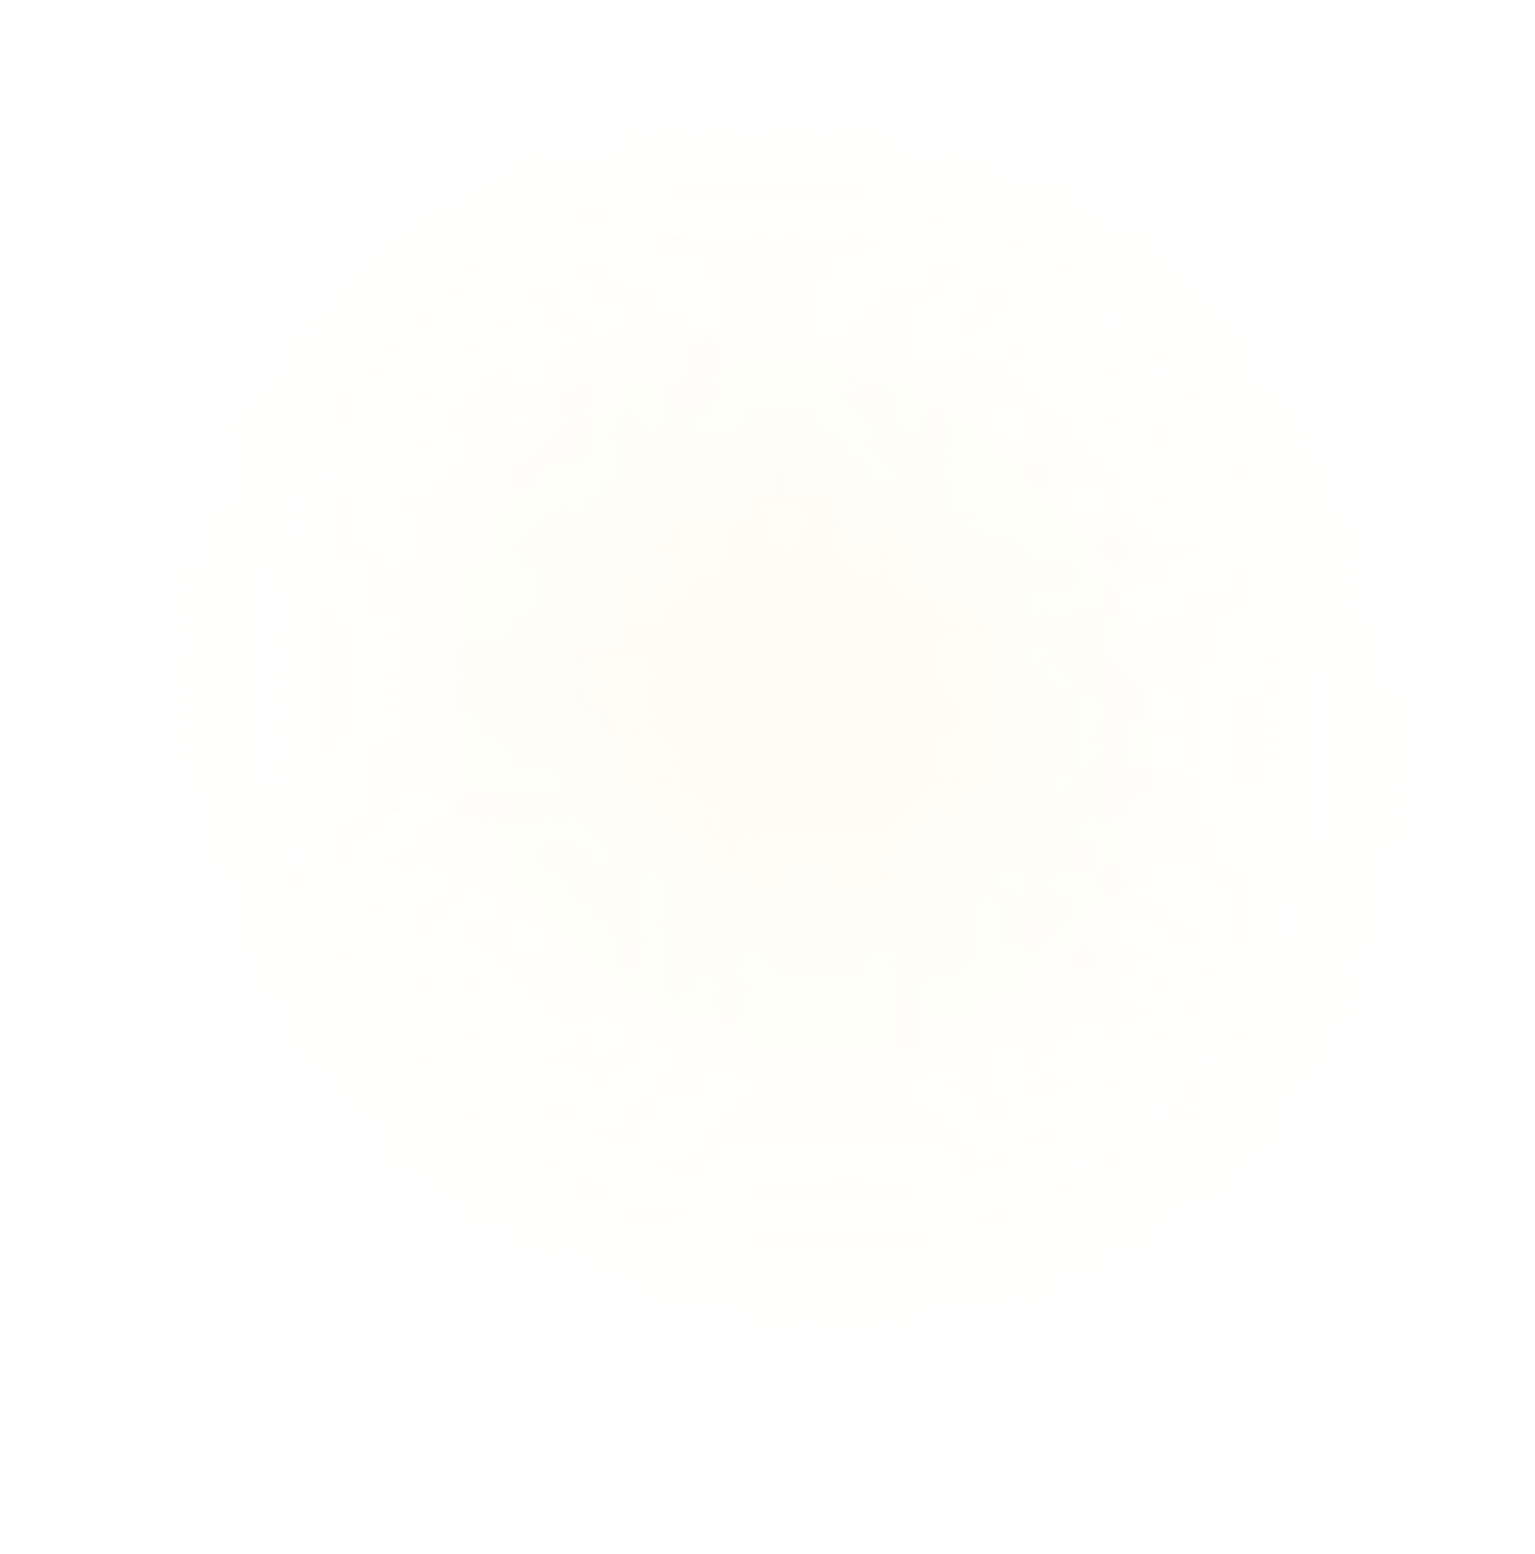
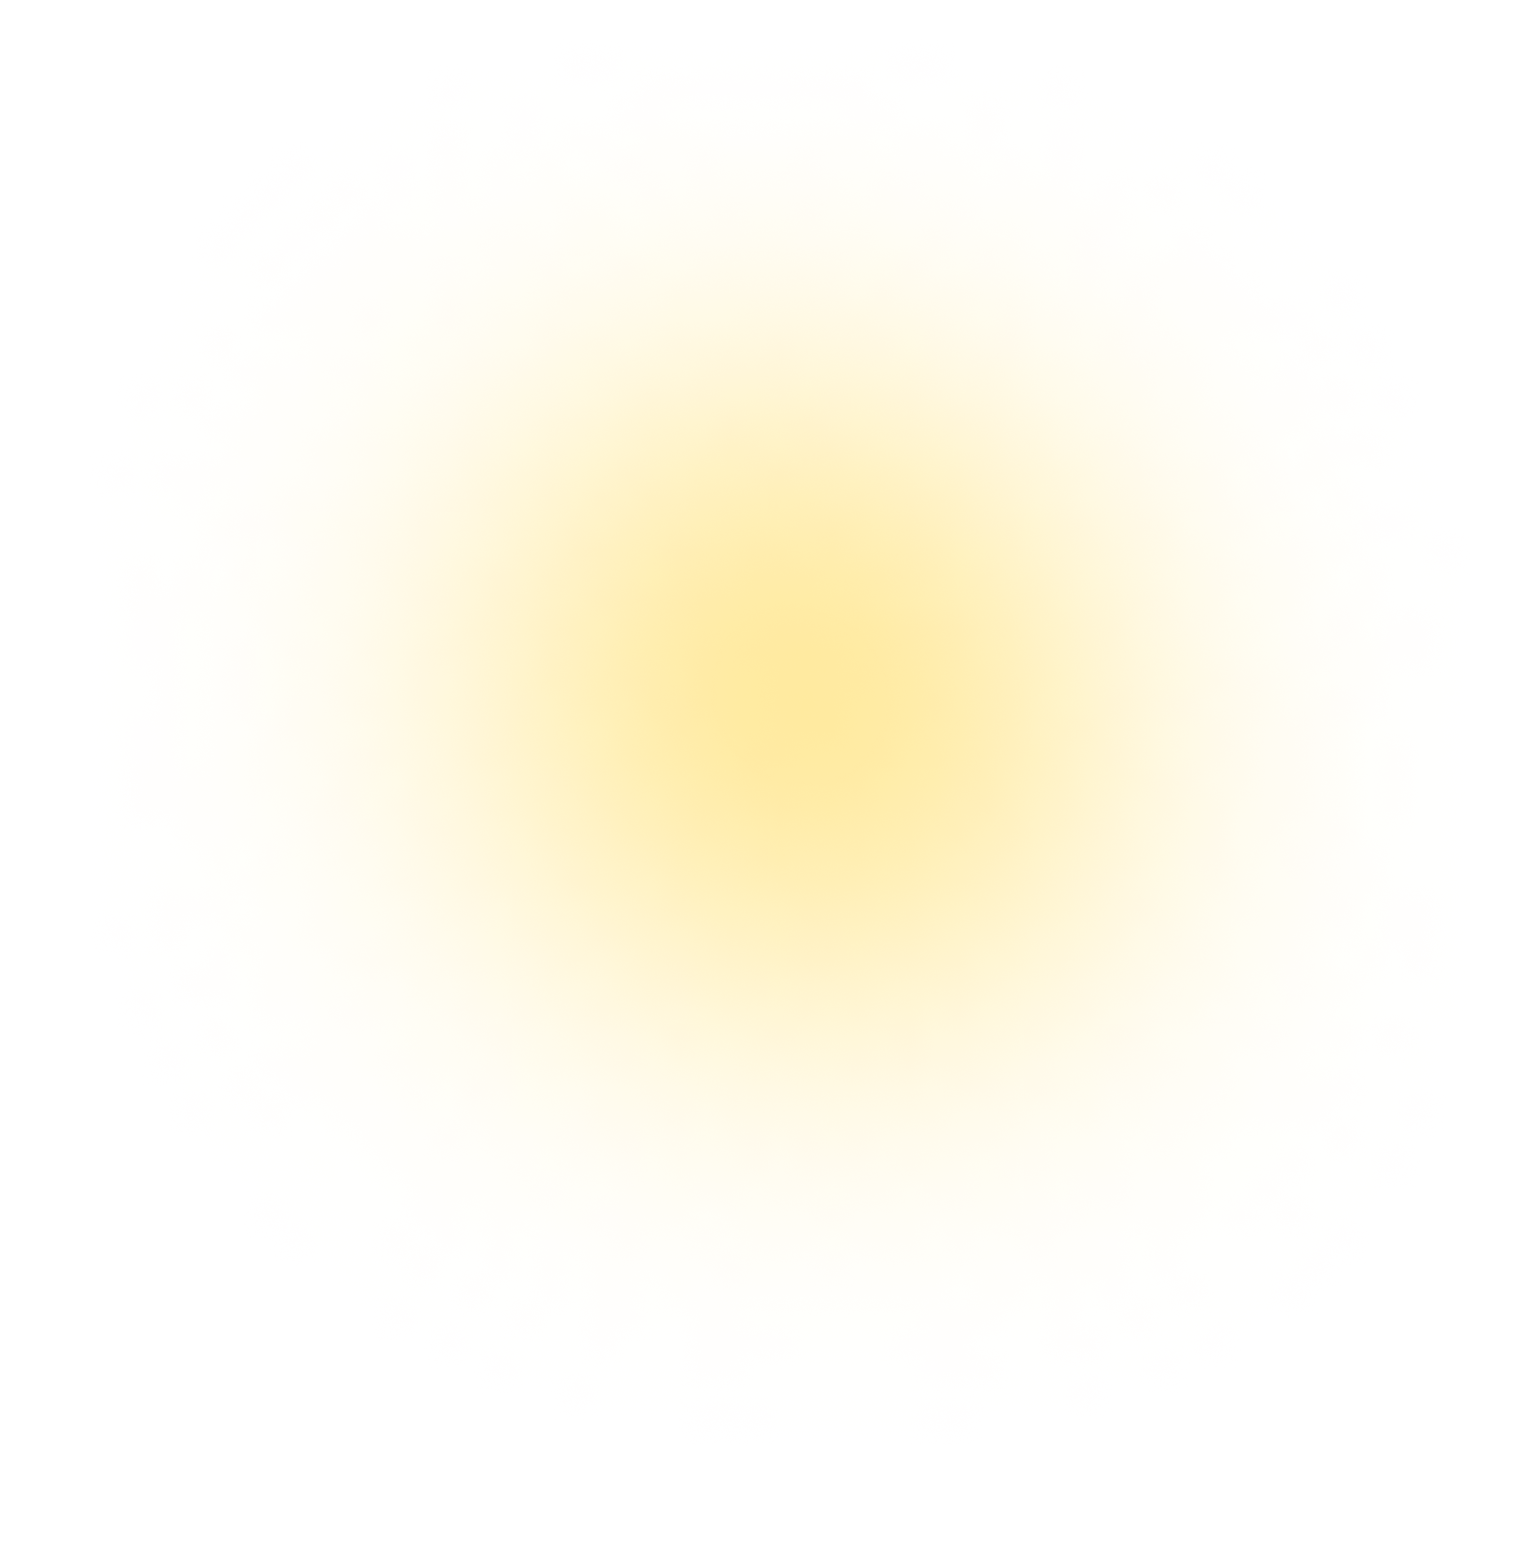
feat: add hero section

Changed region(s): [[0.245, 0.1853, 0.7655, 0.7104]]

diff --git a/src/app/page.tsx b/src/app/page.tsx
@@ -1,7 +1,61 @@
+import Image from "next/image";
+import { Form } from "@/components";
+
 export default function Home() {
   return (
-    <main className="">
-      <h1 className="text-9xl">hello world</h1>
+    <main className="mt-44">
+      <Image
+        src="/images/glow.png"
+        alt="glow"
+        fill
+        className="opacity-10 w-[1500px] h-full absolute top-0 -left-52 -z-10"
+      />
+
+      <Image
+        src="/images/line.png"
+        alt="line"
+        height={400}
+        width={400}
+        className="object-contain mix-blend-difference -z-20 rotate-180 absolute right-44 top-80"
+      />
+
+      <Image
+        src="/images/line.png"
+        alt="line"
+        height={400}
+        width={400}
+        className="object-contain mix-blend-difference -z-20 absolute right-0 top-[-800px]"
+      />
+      <div className="text-7xl font-google-mid space-y-6">
+        <h1 className="bg-clip-text text-transparent bg-gradient-to-b from-40% from-secondary-100 to-black">
+          A Tribute to Innovation
+        </h1>
+
+        <div className="flex">
+          <h1>
+            <span className="bg-clip-text text-transparent bg-gradient-to-b from-40% from-secondary-100 to-black">
+              and{" "}
+            </span>
+            <span className="bg-clip-text text-transparent bg-gradient-to-b from-70% from-primary-100 to-secondary-100">
+              Achievement
+            </span>
+          </h1>
+
+          <Image
+            src="/images/star.png"
+            alt="star"
+            height={120}
+            width={120}
+            className="object-contain -mt-6 ml-4"
+          />
+        </div>
+      </div>
+      <p className="text-2xl text-secondary-100 w-[55%] leading-normal">
+        Lorem ipsum dolor sit amet consectetur. Porttitor felis neque mollis vel
+        diam non massa. Diam elementum lectus.
+      </p>
+
+      <Form />
     </main>
-  )
+  );
 }

diff --git a/src/components/Form.tsx b/src/components/Form.tsx
@@ -1,0 +1,22 @@
+"use client";
+
+export const Form = () => {
+  return (
+    <form className="mt-12">
+      <input
+        required
+        maxLength={7}
+        type="text"
+        placeholder="Enter Student ID"
+        className="border border-secondary-200 px-8 py-4 text-xl rounded text-secondary-100 bg-[#121212] outline-none placeholder:text-secondary-100 mr-4"
+      />
+
+      <button
+        type="submit"
+        className="bg-primary-100 text-secondary-300 py-4 px-10 text-xl rounded font-google-mid"
+      >
+        Get Certificate
+      </button>
+    </form>
+  );
+};

diff --git a/tailwind.config.js b/tailwind.config.js
@@ -8,9 +8,15 @@ module.exports = {
   theme: {
     extend: {
       colors: {
+        primary: {
+          100: "#EEB63F",
+        },
         secondary: {
           100: "#C6C6C6",
-          },
+          200: "#4D4D4D",
+          300: "#121212",
+          400: "#040404",
+        },
       },
       fontFamily: {
         "google-reg": ["Google Sans Regular", "sans-serif"],

diff --git a/src/components/index.ts b/src/components/index.ts
@@ -1,1 +1,2 @@
 export * from "./Navbar";
+export * from "./Form";
